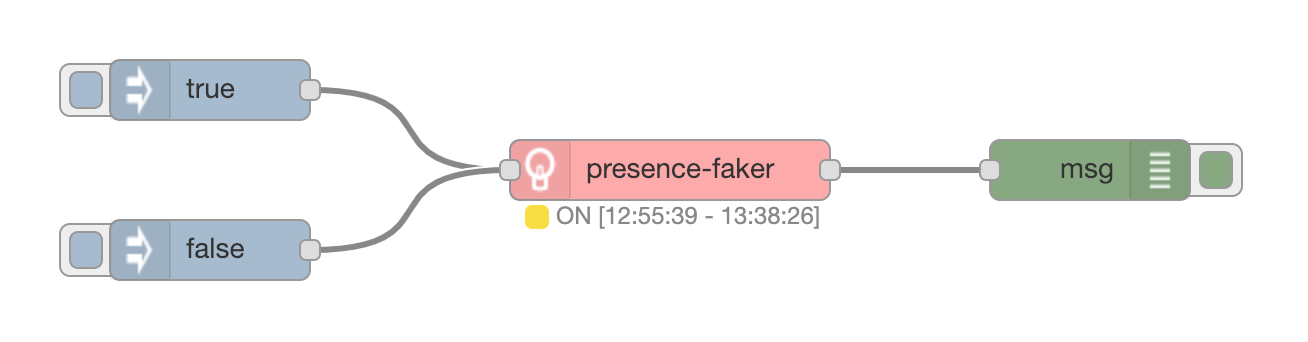
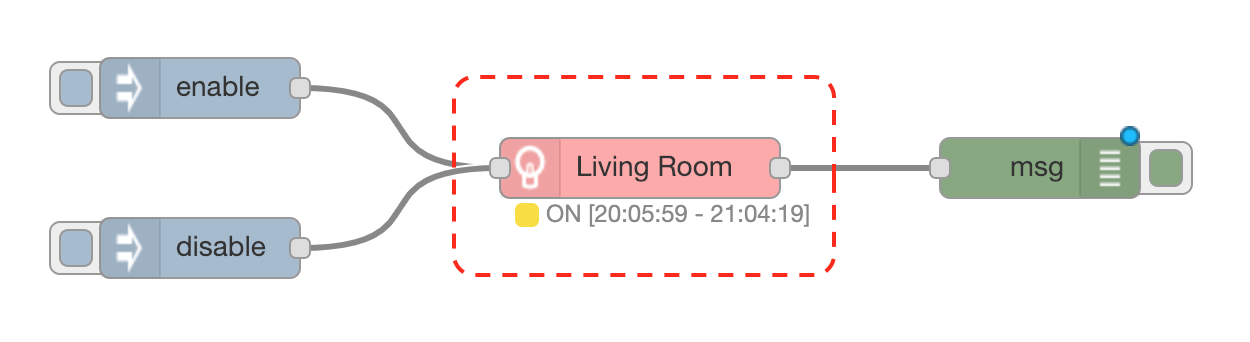
add option to eject a message when node gets disabled

diff --git a/presence-faker.js b/presence-faker.js
@@ -126,6 +126,11 @@ module.exports = function (RED) {
     }
 
     const executeBlock = block => {
+      ejectMsg(block.isOn)
+      setNodeStatusForBlock(block)
+    }
+
+    const ejectMsg = function (isOn) {
       const castPayload = (payload, payloadType) => {
         if (payloadType === 'num') {
           return Number(payload)
@@ -138,23 +143,20 @@ module.exports = function (RED) {
         }
       }
 
-      let payload = block.isOn ? config.onPayload : config.offPayload
-      let payloadType = block.isOn
-        ? config.onPayloadType
-        : config.offPayloadType
+      let payload = isOn ? config.onPayload : config.offPayload
+      let payloadType = isOn ? config.onPayloadType : config.offPayloadType
 
       node.send({
-        topic: block.isOn ? config.onTopic : config.offTopic,
+        topic: isOn ? config.onTopic : config.offTopic,
         payload: castPayload(payload, payloadType)
       })
-
-      setNodeStatusForBlock(block)
     }
 
     node.on('input', function (msg) {
       if (
         msg.payload === true ||
         msg.payload === 'true' ||
+        msg.payload === 'enable' ||
         msg.payload === 'activate'
       ) {
         // activate!
@@ -162,10 +164,14 @@ module.exports = function (RED) {
       } else if (
         msg.payload === false ||
         msg.payload === 'false' ||
+        msg.payload === 'disable' ||
         msg.payload === 'deactivate'
       ) {
         // deactivate!
         stopCrons()
+        if (isNowWithinWindow() && config.actionOnDisable !== 'none') {
+          ejectMsg(config.actionOnDisable === 'on')
+        }
         setNodeStatus('inactive')
       }
     })

diff --git a/presence-faker.html b/presence-faker.html
@@ -79,7 +79,8 @@
 
           return true
         }
-      }
+      },
+      actionOnDisable: { value: 'none' }
     },
     inputs: 1,
     outputs: 1,
@@ -350,6 +351,15 @@
   <div class="form-row">
     <label for="node-input-offTopic"><i class="fa fa-tasks"></i> <span>OFF Topic</span></label>
     <input type="text" id="node-input-offTopic">
+  </div>
+
+  <div class="form-row">
+    <label for="node-input-actionOnDisable"><i class="fa fa-power-off"></i> <span>when disabled</span></label>
+    <select id="node-input-actionOnDisable">
+      <option value="none">do nothing</option>
+      <option value="on">send ON message</option>
+      <option value="off">send OFF message</option>
+    </select>
   </div>
 </script>
 

diff --git a/README.md b/README.md
@@ -8,6 +8,10 @@ You can configure a time window during which the node should eject random ON / O
 
 ![example](docs/example.png)
 
-## Contributions
+## Properties Configuration
 
-... are always welcome!
+![example](docs/node-props.png)
+
+## Contributions and Suggestions
+
+... are always welcome! Just file a GitHub [issue](https://github.com/csuermann/presence-faker/issues) or [pull request](https://github.com/csuermann/presence-faker/pulls)!
